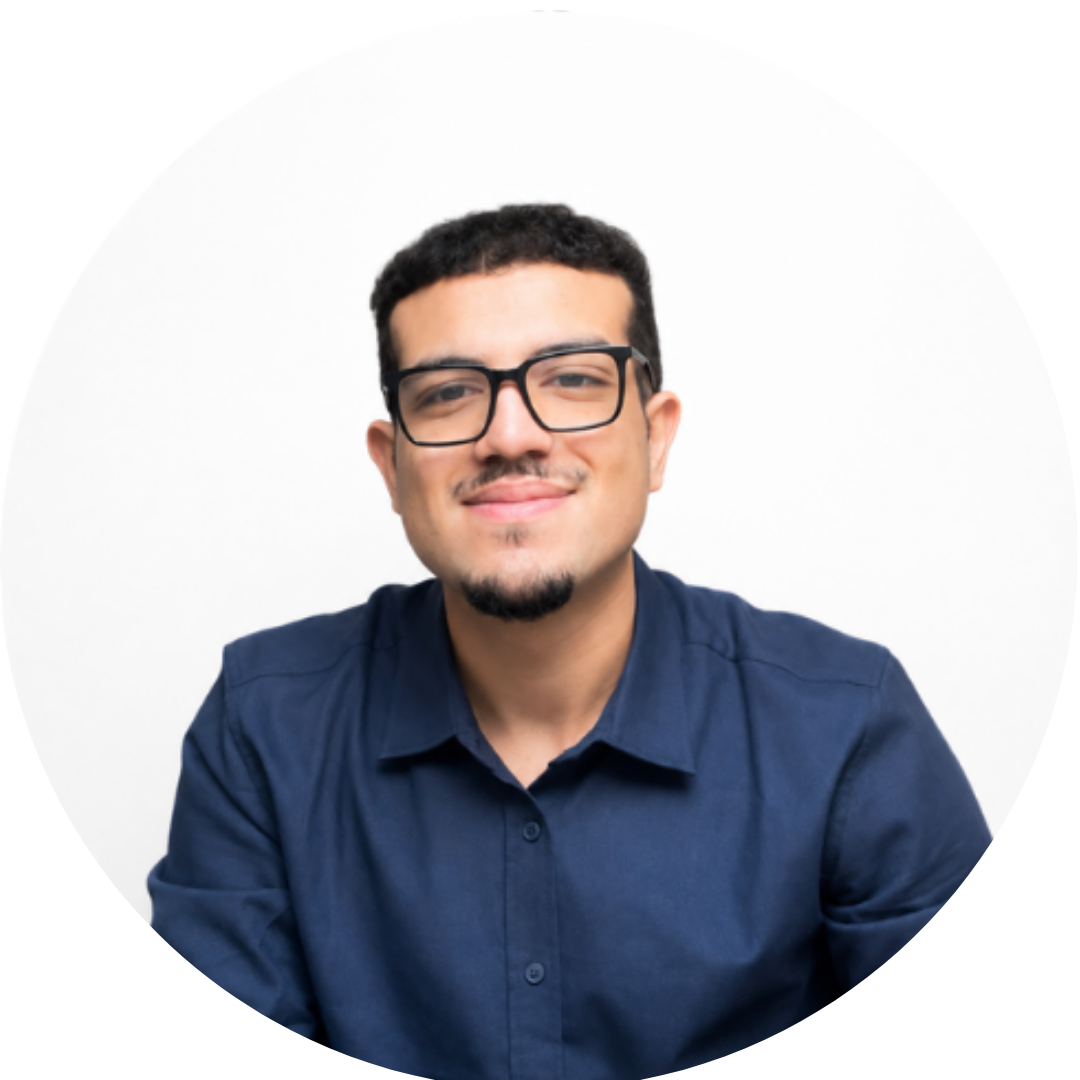
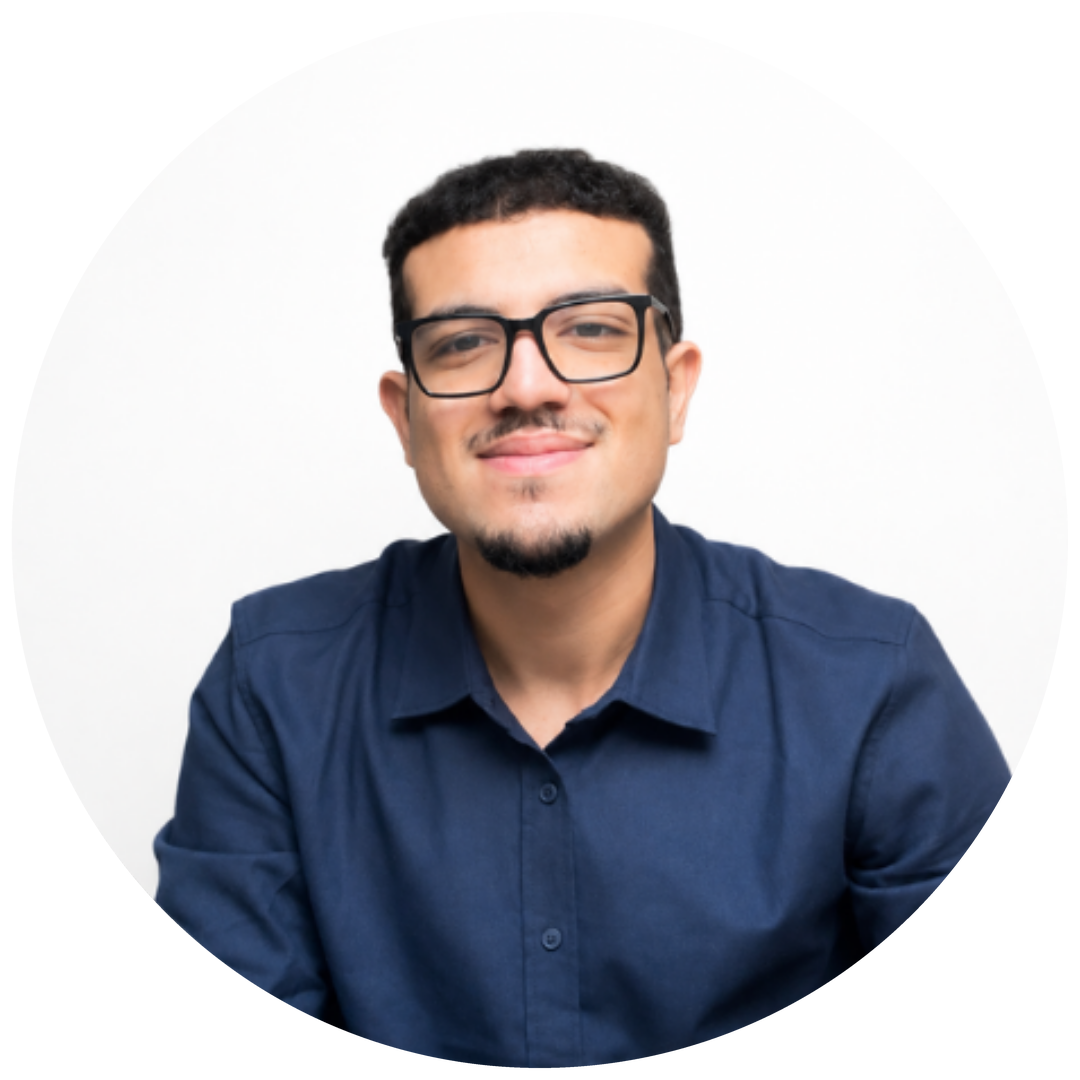
fix(portrait): mask to the photo's measured cut-out edge
The source circle is hand-cut (radius 531-541px), so a centred mask left a white sliver at the bottom-left. generate-portrait.py now finds the tightest edge radius and masks 3px inside it; portrait, WebP sizes and og.png regenerated.

Changed region(s): [[0.1222, 0.1222, 0.9472, 1.0], [0.4889, 0.8556, 0.5194, 0.9167]]

diff --git a/scripts/generate-portrait.py b/scripts/generate-portrait.py
@@ -1,6 +1,6 @@
-"""Generate the portrait assets from a source photo.
+"""Generate the portrait assets from the original source photo.
 
-    python scripts/generate-portrait.py path/to/photo.png
+    python scripts/generate-portrait.py path/to/original-photo.png
 
 Writes:
   public/achraf-malki.png            canonical image (Person.image, sitemap, the
@@ -9,15 +9,18 @@ Writes:
   src/assets/portrait-{400,800}.webp  what browsers actually download, via the
                                      hero <picture> sources
 
-The source must be a square photo with the subject framed inside an inscribed
-circle (anything outside the circle becomes transparent, so the portrait works
-on both themes). Re-running on the canonical PNG is safe.
+The source must be a square photo of a circular cut-out on a pure-white
+(#ffffff) canvas. Hand-cut circles are rarely perfect, so the script measures
+where the cut-out actually is and masks just inside its tightest point;
+everything outside becomes transparent, so the portrait works on both themes.
+Always run it on the original photo, not on public/achraf-malki.png.
 
 After running: update PORTRAIT width/height in src/seo/site.js if the size
 changed, then run scripts/generate-og.ps1.
 
 Requires Pillow (pip install pillow).
 """
+import math
 import sys
 from pathlib import Path
 
@@ -27,15 +30,41 @@ ROOT = Path(__file__).resolve().parent.parent
 CANONICAL = ROOT / "public" / "achraf-malki.png"
 VARIANTS = {400: ROOT / "src" / "assets" / "portrait-400.webp",
             800: ROOT / "src" / "assets" / "portrait-800.webp"}
-EDGE_INSET = 3  # px trimmed inside the circle to drop the anti-aliased white rim
+EDGE_INSET = 3  # px kept clear of the cut-out's anti-aliased white rim
 SUPERSAMPLE = 4
+WHITE = (255, 255, 255)
 
 
-def circular_mask(size):
+def cutout_radius(photo):
+    """Smallest distance from the centre to the cut-out's edge, over all angles.
+
+    Marches inward along each ray until it leaves the pure-white canvas. Using
+    the minimum means a mask of this radius never includes canvas white, even
+    where the cut-out is dented or off-centre.
+    """
+    rgb = photo.convert("RGB")
+    px = rgb.load()
+    size = rgb.width
+    centre = (size - 1) / 2
+    radii = []
+    for degree in range(360):
+        dx, dy = math.cos(math.radians(degree)), math.sin(math.radians(degree))
+        for r in range(int(size * 0.75), size // 4, -1):
+            x, y = round(centre + dx * r), round(centre + dy * r)
+            if 0 <= x < size and 0 <= y < size and px[x, y] != WHITE:
+                radii.append(r)
+                break
+    if len(radii) < 360:
+        sys.exit("could not find the cut-out edge on every ray: expected a circle on a pure-white canvas")
+    return min(radii)
+
+
+def circular_mask(size, radius):
     big = size * SUPERSAMPLE
+    centre = (big - 1) / 2
+    r = radius * SUPERSAMPLE
     mask = Image.new("L", (big, big), 0)
-    inset = EDGE_INSET * SUPERSAMPLE
-    ImageDraw.Draw(mask).ellipse((inset, inset, big - inset - 1, big - inset - 1), fill=255)
+    ImageDraw.Draw(mask).ellipse((centre - r, centre - r, centre + r, centre + r), fill=255)
     return mask.resize((size, size), Image.LANCZOS)
 
 
@@ -44,7 +73,11 @@ def main(source):
     if photo.width != photo.height:
         sys.exit(f"source must be square, got {photo.width}x{photo.height}")
 
-    photo.putalpha(circular_mask(photo.width))
+    edge = cutout_radius(photo)
+    radius = edge - EDGE_INSET
+    print(f"cut-out edge at r>={edge}px; masking at r={radius}px")
+
+    photo.putalpha(circular_mask(photo.width, radius))
     photo.save(CANONICAL, optimize=True)
     print(f"{CANONICAL.relative_to(ROOT)}  {photo.width}x{photo.height}  {CANONICAL.stat().st_size / 1024:.0f} KB")
 
